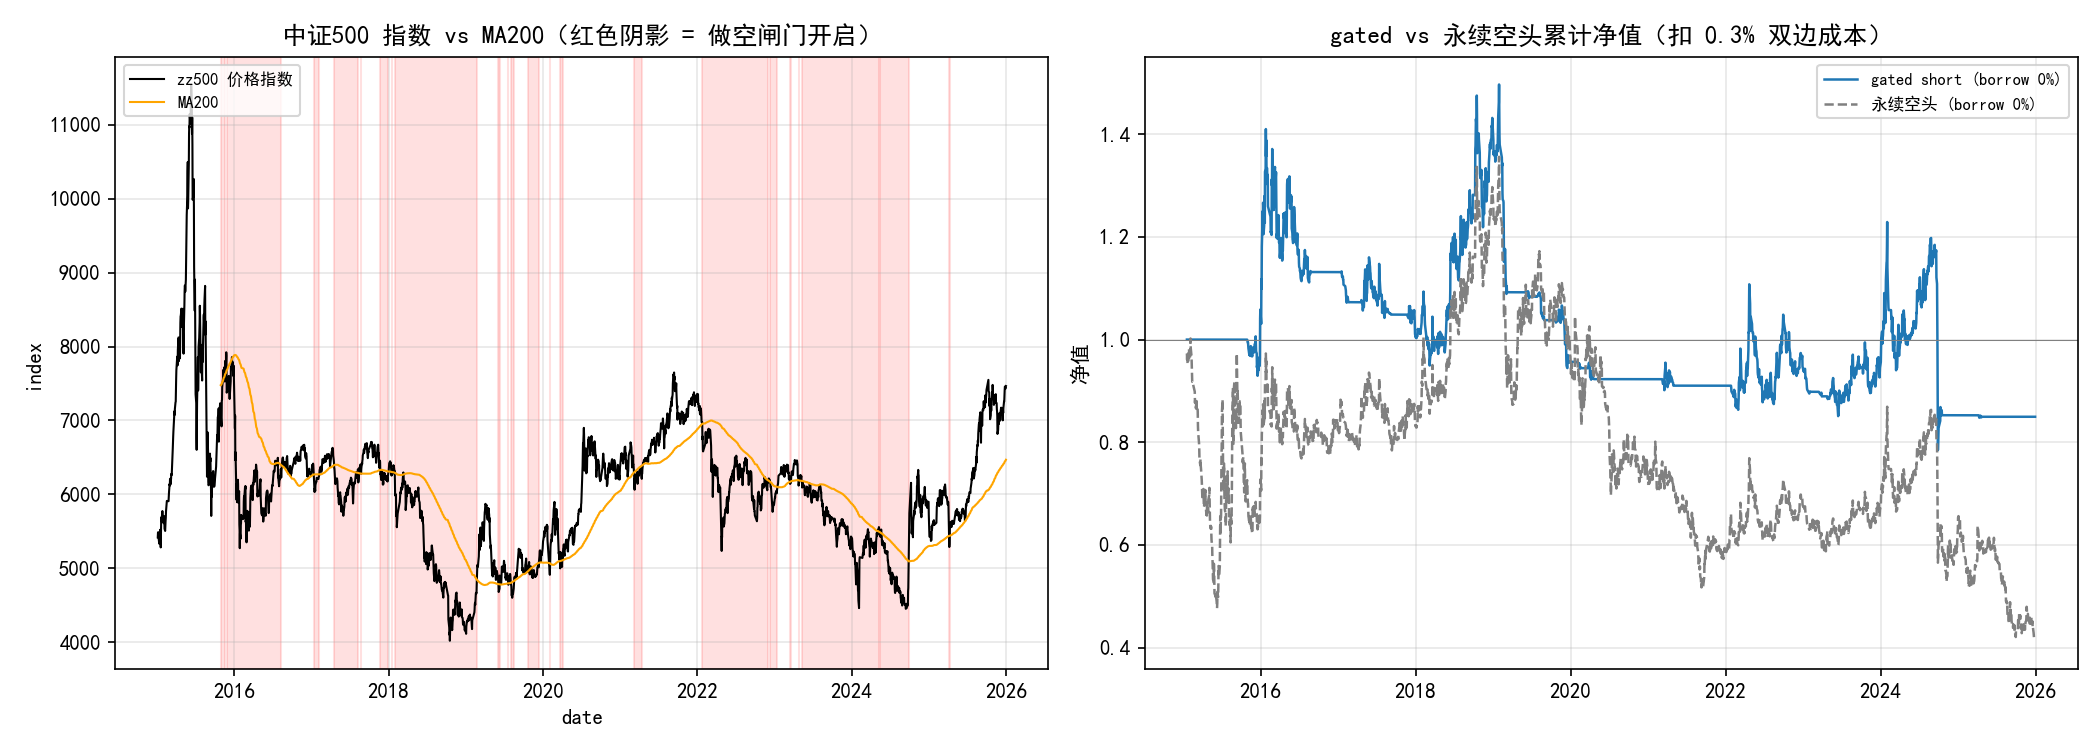
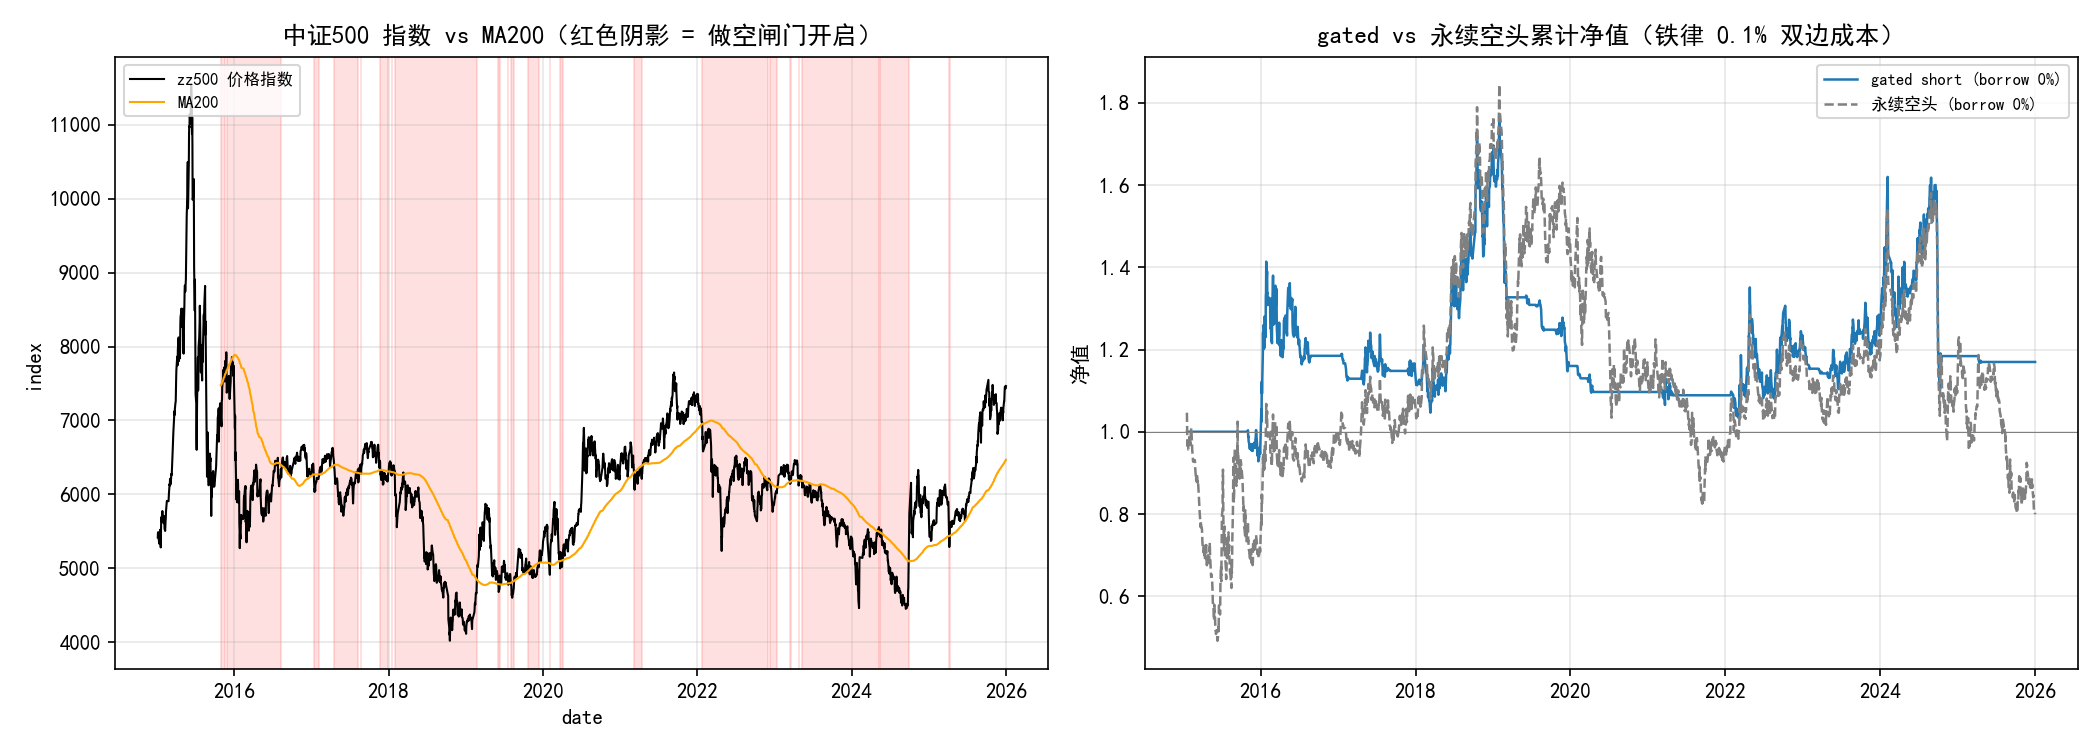
fix: P1/P2 新口径重跑确认 — 多头增强转中间态、做空端仍否定
P1 多头增强（enhance.py 新口径重跑，铁律 0.1%）：
- LO-raw 超额 -0.1% → +9.4%（IR -0.01 → +1.11，p=0.037 显著）
- LO-neutral IR -0.56 → +1.01（夏普 0.44，p=0.098 不显著）
- 两个否定依据（超额≈0、中性化 IR 转负）都被成本 bug 反转
- 容量结论不变：0.5亿 k=0.3 时 SR +0.392，20亿以上转负
- P1 定位：从「否定」→「方向转正、显著性边缘、容量<0.5亿」的中间态

P2 做空端（bear_short.py 新口径重跑）：
- borrow 0% 基础改善：永续 -3.5%→+2.8%、gated SR +0.01→+0.17
- 叠加 8-10% 融券成本后仍转负（SR -0.02/-0.07）、bootstrap 不显著（p=0.29/0.48/0.41）
- 做空端否定结论不因交易成本收口反转（融券成本 8-10% 主导）

同步更新 models/report.md 与 zz500_pit_trial/report.md 的 P1/P2 章节、头部结论、
最终判决、下一步，以及 enhance.py/bear_short.py 的 0.3% 文案残留

diff --git a/strategies/zz500_pit_trial/bear_short.py b/strategies/zz500_pit_trial/bear_short.py
@@ -247,7 +247,7 @@ def plot_gate_and_nav(idx_close, gate, nav_gated, nav_perm):
     ax.plot(nav_perm.index, nav_perm["cum"], label="永续空头 (borrow 0%)", linewidth=1.2,
             linestyle="--", color="gray")
     ax.axhline(1.0, color="gray", linewidth=0.5)
-    ax.set_title("gated vs 永续空头累计净值（扣 0.3% 双边成本）")
+    ax.set_title("gated vs 永续空头累计净值（铁律 0.1% 双边成本）")
     ax.set_ylabel("净值")
     ax.legend(fontsize=8)
     ax.grid(True, alpha=0.3)
@@ -342,7 +342,7 @@ def main():
     valid = pred_liq.notna().sum(axis=1)
     print(f"  逐日有效股票数: 中位 {valid.median():.0f} / 原中位 {pred.notna().sum(axis=1).median():.0f}")
 
-    # 4. 组合（全部 short_only, hold=10, 0.3% 双边）
+    # 4. 组合（全部 short_only, hold=10, 铁律 0.1% 双边）
     print("\n[4] 组合...")
     # 永续基线（无闸门）
     df_perm, W_perm = short_pf(pred_liq, close, gate=None)

diff --git a/strategies/zz500_pit_trial/enhance.py b/strategies/zz500_pit_trial/enhance.py
@@ -151,7 +151,7 @@ def plot_nav(results: dict, idx_ret: pd.Series, bench_name: str, bench_cum: pd.S
         ax.plot(df["cum"], label=name, linewidth=1.2)
     ax.plot(bench_cum, label=bench_name, color="black", linewidth=1.0, linestyle="--")
     ax.axhline(1.0, color="gray", linewidth=0.5)
-    ax.set_title("累计净值（扣 0.3% 双边成本）")
+    ax.set_title("累计净值（铁律 0.1% 双边成本，买/卖分离）")
     ax.set_ylabel("净值")
     ax.legend()
     ax.grid(True, alpha=0.3)
